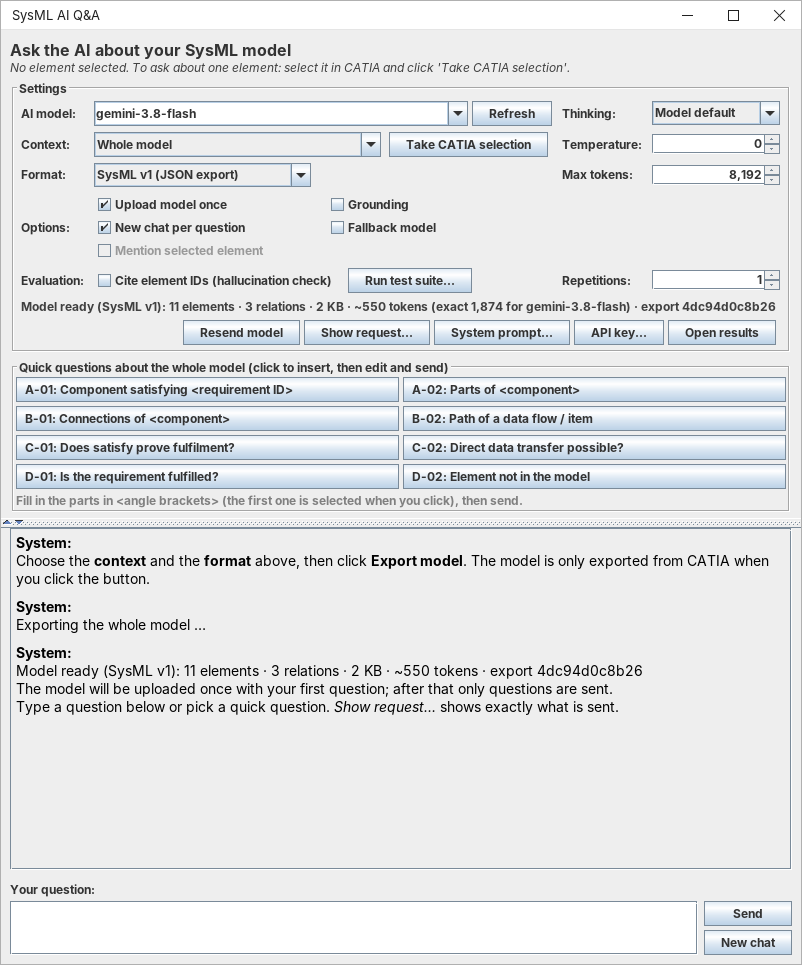
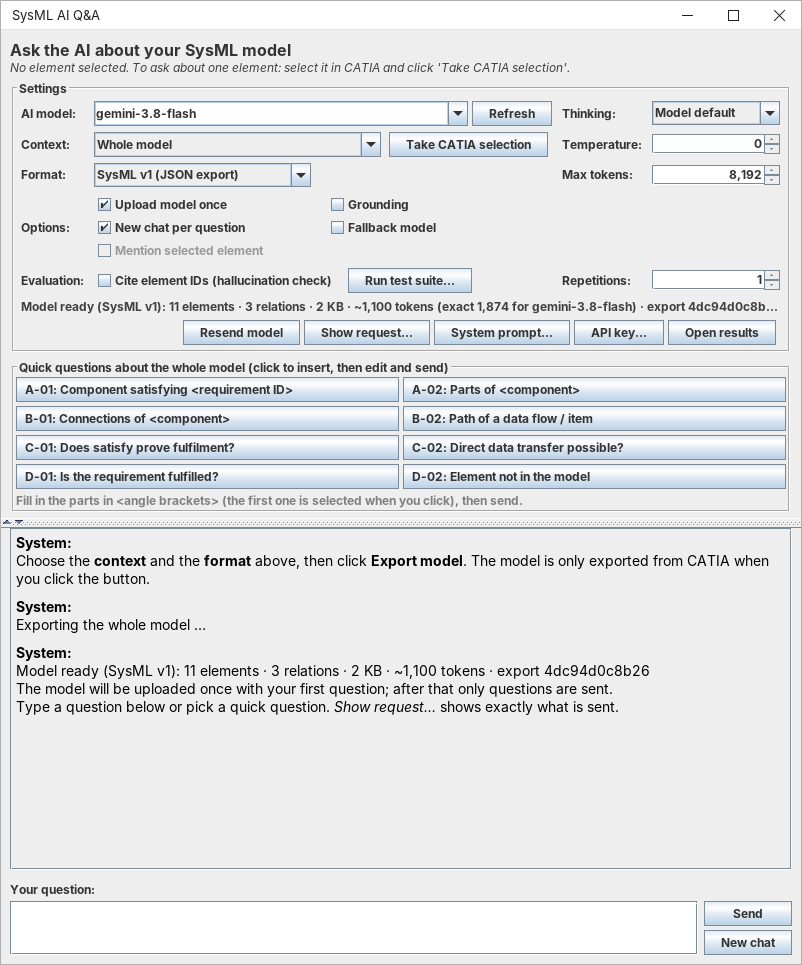
v3.5.1: Minutenlimit sofort erkennen, Testlauf geduldiger bei Überlastung, Modellnamen prüfen, INSTALL.md aktualisiert

Changed region(s): [[0.4364, 0.3109, 0.9663, 0.342], [0.4988, 0.6839, 0.8105, 0.715]]

diff --git a/src/de/hm/sysmlaiqa/api/GeminiExplanationService.java b/src/de/hm/sysmlaiqa/api/GeminiExplanationService.java
@@ -220,7 +220,7 @@ public class GeminiExplanationService implements ExplanationService {
                         daily = true;
                         break;
                     }
-                    if (cr.tooLarge) {          // zu groß für dieses Modell: inline würde genauso scheitern
+                    if (cr.tooLarge || cr.quotaTooSmall) {   // zu groß für dieses Modell: inline würde genauso scheitern
                         lastError = cr.message;
                         tooLarge = true;
                         continue;
@@ -231,13 +231,13 @@ public class GeminiExplanationService implements ExplanationService {
 
             // 2. Frage senden (Denktiefe wie eingestellt; lehnt das Modell sie ab, einmal ohne)
             String thinking = effectiveThinking(model, s.thinkingLevel);
-            Attempt a = callModel(model, buildRequestBody(s, systemPrompt, modelTurn, questionTurn, cacheName, thinking), apiKey, s, stats);
+            Attempt a = callModel(model, buildRequestBody(s, systemPrompt, modelTurn, questionTurn, cacheName, thinking), apiKey, s, stats, cacheName == null ? s.modelTokens : 0);
             if (a.answer == null && !"default".equals(thinking) && a.error != null && a.error.toLowerCase().contains("think")) {
                 synchronized (thinkingUnsupported) { thinkingUnsupported.add(model + "|" + thinking); }
                 note = (note.isEmpty() ? "" : note + " ") + model + " does not support thinking level \"" + thinking
                         + "\" – used the model's default instead.";
                 thinking = "default";
-                a = callModel(model, buildRequestBody(s, systemPrompt, modelTurn, questionTurn, cacheName, thinking), apiKey, s, stats);
+                a = callModel(model, buildRequestBody(s, systemPrompt, modelTurn, questionTurn, cacheName, thinking), apiKey, s, stats, cacheName == null ? s.modelTokens : 0);
             }
             if (a.cacheMissing && cacheName != null) {
                 // Cache bei Google abgelaufen/gelöscht -> einmal neu hochladen
@@ -246,7 +246,7 @@ public class GeminiExplanationService implements ExplanationService {
                 cacheName = cr.name;
                 transfer = cacheName != null ? "cache_new" : "inline";
                 if (cacheName == null) note = cr.message;
-                a = callModel(model, buildRequestBody(s, systemPrompt, modelTurn, questionTurn, cacheName, thinking), apiKey, s, stats);
+                a = callModel(model, buildRequestBody(s, systemPrompt, modelTurn, questionTurn, cacheName, thinking), apiKey, s, stats, cacheName == null ? s.modelTokens : 0);
             }
 
             if (a.answer != null) {
@@ -272,6 +272,7 @@ public class GeminiExplanationService implements ExplanationService {
             }
             lastError = a.error;
             if (a.dailyLimit) { daily = true; break; }
+            if (a.tooLarge) { tooLarge = true; continue; }   // passt nie ins Minutenlimit dieses Modells
             if (a.fatal || cancelled) break;
         }
 
@@ -336,6 +337,7 @@ public class GeminiExplanationService implements ExplanationService {
         boolean created;
         boolean dailyLimit;
         boolean tooLarge;
+        boolean quotaTooSmall;
         String message = "";
     }
 
@@ -394,7 +396,12 @@ public class GeminiExplanationService implements ExplanationService {
         AskSettings us = s.copy();
         us.max429Retries = Math.min(1, s.max429Retries);
         us.max429WaitSec = Math.min(30, s.max429WaitSec);
-        Sent sent = sendWithRateLimit(req, model, us, stats);
+        Sent sent = sendWithRateLimit(req, model, us, stats, s.modelTokens);
+        if (sent.quotaTooSmall) {
+            r.quotaTooSmall = true;
+            r.message = sent.error;
+            return r;
+        }
         if (sent.response == null && sent.quotaZero) {
             // Upload für dieses KI-Modell mit diesem Key nicht freigegeben -> bis "Resend model" nicht mehr versuchen
             String msg = "Caching not available for " + model + " (" + sent.error.trim()
@@ -471,10 +478,11 @@ public class GeminiExplanationService implements ExplanationService {
         boolean dailyLimit;
         boolean rateLimited;
         boolean quotaZero;   // Kontingent 0 (im Free Tier nicht freigegeben) – Warten hilft nie
+        boolean quotaTooSmall; // eine einzelne Anfrage ist größer als das Minutenkontingent – Warten hilft nie
     }
 
     /** Sendet eine Anfrage; wartet bei HTTP 429 (pro Minute) die von Google genannte Zeit und versucht es erneut. */
-    private Sent sendWithRateLimit(HttpRequest request, String model, AskSettings s, RetryStats stats) {
+    private Sent sendWithRateLimit(HttpRequest request, String model, AskSettings s, RetryStats stats, long requestTokens) {
         Sent out = new Sent();
         int attempt = 0;
         int overloadAttempt = 0;
@@ -488,9 +496,10 @@ public class GeminiExplanationService implements ExplanationService {
                 if (resp.statusCode() == 503 || resp.statusCode() == 500) {
                     // Google überlastet ("high demand") – meist nach Sekunden vorbei: kurz warten und erneut versuchen
                     overloadAttempt++;
-                    if (overloadAttempt <= 3) {
-                        int wait = 5 * overloadAttempt; // 5 s, 10 s, 15 s
-                        log(model + ": overloaded (HTTP " + resp.statusCode() + "), retrying in " + wait + " s (" + overloadAttempt + "/3)");
+                    if (overloadAttempt <= s.maxOverloadRetries) {
+                        int wait = Math.min(30, 5 * overloadAttempt); // 5, 10, 15 … höchstens 30 s
+                        log(model + ": overloaded (HTTP " + resp.statusCode() + "), retrying in " + wait + " s ("
+                                + overloadAttempt + "/" + s.maxOverloadRetries + ")");
                         sleepCancellable(wait * 1000L);
                         stats.waitedSec += wait;
                         continue;
@@ -504,6 +513,16 @@ public class GeminiExplanationService implements ExplanationService {
                 }
                 String body = resp.body();
                 String apiMsg = shorten(extractString(body, "message"), 300);
+                long quota = inputTokenQuota(body);
+                if (quota > 0 && requestTokens > quota) {
+                    // Eine einzelne Anfrage ist größer als das Minutenkontingent: Warten hilft nie
+                    out.quotaTooSmall = true;
+                    out.error = String.format("The model data (about %,d tokens) is larger than the input limit per minute of %s "
+                            + "for your API key (%,d tokens). Every request would be rejected. Choose a smaller context "
+                            + "(selected packages or element surroundings), the SysML v2 format, or an AI model that supports "
+                            + "\"Upload model once\" (e.g. gemini-3.8-flash).", requestTokens, model, quota);
+                    return out;
+                }
                 if (isZeroQuota(body)) {
                     // z. B. Upload (Cache) für Flash-Lite im Free Tier: Kontingent 0, Warten ist sinnlos
                     out.quotaZero = true;
@@ -539,6 +558,14 @@ public class GeminiExplanationService implements ExplanationService {
         }
     }
 
+    /** Minutenkontingent für Eingabe-Tokens aus einer HTTP-429-Antwort ("…input_token_count…, limit: 250000"), sonst -1. */
+    static long inputTokenQuota(String body) {
+        if (body == null) return -1;
+        Matcher m = Pattern.compile("metric: ?([^,\\s]*input_token[^,\\s]*), ?limit: ?(\\d+)").matcher(body);
+        if (m.find()) return Long.parseLong(m.group(2));
+        return -1;
+    }
+
     /** HTTP-429-Antwort mit Kontingent 0 ("limit: 0" bzw. quotaValue 0): im Free Tier nicht freigegeben. */
     static boolean isZeroQuota(String body) {
         if (body == null) return false;
@@ -551,10 +578,11 @@ public class GeminiExplanationService implements ExplanationService {
         String error;
         boolean fatal;
         boolean dailyLimit;
+        boolean tooLarge;
         boolean cacheMissing;
     }
 
-    private Attempt callModel(String model, String body, String apiKey, AskSettings s, RetryStats stats) {
+    private Attempt callModel(String model, String body, String apiKey, AskSettings s, RetryStats stats, long requestTokens) {
         Attempt result = new Attempt();
         HttpRequest request = HttpRequest.newBuilder()
                 .uri(URI.create(API_BASE + "/models/" + model + ":generateContent?key=" + apiKey))
@@ -564,10 +592,11 @@ public class GeminiExplanationService implements ExplanationService {
                 .build();
         log("Sending question to " + model + " (" + String.format("%.1f", body.length() / 1024.0) + " KB) ...");
         long t0 = System.currentTimeMillis();
-        Sent sent = sendWithRateLimit(request, model, s, stats);
+        Sent sent = sendWithRateLimit(request, model, s, stats, requestTokens);
         if (sent.response == null) {
             result.error = sent.error;
             result.dailyLimit = sent.dailyLimit;
+            result.tooLarge = sent.quotaTooSmall;
             result.fatal = CANCELLED.equals(sent.error);
             if (!result.fatal) CIRCUIT.recordFailure(model);
             return result;
@@ -788,6 +817,13 @@ public class GeminiExplanationService implements ExplanationService {
         }
     }
 
+    private final Set<String> unknownModels = new HashSet<>();
+
+    /** true, wenn Google den Modellnamen nicht kennt (HTTP 404 bei {@link #inputTokenLimit(String)}). */
+    public boolean isUnknownModel(String model) {
+        synchronized (unknownModels) { return unknownModels.contains(model); }
+    }
+
     /** Eingabelimit des Modells in Tokens laut Google (einmal abgefragt, dann gemerkt); -1 = unbekannt. */
     public int inputTokenLimit(String model) {
         synchronized (inputLimits) {
@@ -804,6 +840,10 @@ public class GeminiExplanationService implements ExplanationService {
                         .GET().build();
                 HttpResponse<String> resp = httpClient.send(req, HttpResponse.BodyHandlers.ofString());
                 if (resp.statusCode() == 200) limit = extractInt(resp.body(), "inputTokenLimit");
+                if (resp.statusCode() == 404) {
+                    synchronized (unknownModels) { unknownModels.add(model); }
+                    return -1;   // nicht merken: nach einer Korrektur des Namens erneut fragen
+                }
             } catch (Exception ignored) { }
         }
         synchronized (inputLimits) {

diff --git a/src/de/hm/sysmlaiqa/ui/ExplanationDialog.java b/src/de/hm/sysmlaiqa/ui/ExplanationDialog.java
@@ -1452,9 +1452,16 @@ public class ExplanationDialog extends JFrame {
                     s.allowFallback = false; // keine vermischten Modelle im Testlauf
                     s.max429WaitSec = 120;   // im Testlauf geduldiger auf Rate-Limits warten
                     s.max429Retries = 5;
+                    s.maxOverloadRetries = 8;  // bei "high demand" bis etwa 3 min warten, bevor eine Frage als failed zählt
                     // Vorab prüfen, ob die Modelldaten in das Eingabelimit passen; sonst scheitert jede Frage gleich
                     showLiveStatus("Checking the size of the model data for " + model + " …");
                     int limit = apiService.inputTokenLimit(model);
+                    if (apiService.isUnknownModel(model)) {
+                        publish("<span style='color:#B00020'><b>Skipped " + escapeHtml(model) + "</b>: Google does not know this model name. "
+                                + "No questions were sent. Check the spelling (e.g. gemini-3.8-flash, gemini-3.5-flash-lite) or click "
+                                + "<b>Refresh</b> to see the models of your API key.</span>");
+                        continue;
+                    }
                     int tokens = ex.exactTokens >= 0 && model.equals(ex.exactTokensModel) ? ex.exactTokens
                             : apiService.countTokens(model, ex.content, ex.format);
                     if (cancelRequested) break;

diff --git a/src/de/hm/sysmlaiqa/api/AskSettings.java b/src/de/hm/sysmlaiqa/api/AskSettings.java
@@ -26,6 +26,10 @@ public class AskSettings {
     public int relationDepth = -1;           // Depth: relations (nur bei Element + Umgebung, sonst -1)
     public int siblingDepth = -1;            // Depth: neighbours (nur bei Element + Umgebung, sonst -1)
     public int pauseSec = 0;                 // Testlauf: Extra-Pause zwischen Anfragen
+    /** Nicht im Log: Tokens der Modelldaten (genau, sonst geschätzt) – zum Erkennen, dass eine Anfrage nie ins Minutenlimit passt. */
+    public long modelTokens = -1;
+    /** Nicht im Log: so oft bei Überlastung (HTTP 503 "high demand") erneut versuchen; Testlauf geduldiger. */
+    public int maxOverloadRetries = 3;
 
     public AskSettings copy() {
         AskSettings c = new AskSettings();
@@ -47,6 +51,8 @@ public class AskSettings {
         c.relationDepth = relationDepth;
         c.siblingDepth = siblingDepth;
         c.pauseSec = pauseSec;
+        c.modelTokens = modelTokens;
+        c.maxOverloadRetries = maxOverloadRetries;
         return c;
     }
 }

diff --git a/src/de/hm/sysmlaiqa/api/Evaluation.java b/src/de/hm/sysmlaiqa/api/Evaluation.java
@@ -22,6 +22,8 @@ public final class Evaluation {
         AskSettings s = settings.copy();
         if (repetition > 1 || settings.repetitions > 1) s.freshChat = true;
         s.format = export.format;   // System-Prompt und Modelldaten passen immer zum Format des Exports
+        s.modelTokens = export.exactTokens >= 0 && settings.model.equals(export.exactTokensModel)
+                ? export.exactTokens : export.approxTokens();
 
         PromptLoader.Template tpl = PromptLoader.loadTemplate(GeminiExplanationService.getBaseDirectory(), s.format);
         String systemPrompt = PromptLoader.fill(tpl.text, s.requireIds, s.format);

diff --git a/tools/docs-screenshots/Docs.java b/tools/docs-screenshots/Docs.java
@@ -136,7 +136,7 @@ public class Docs {
             setF(d, "loading", false);
             call(d, "updateControls");
         });
-        ModelExport ex = ModelExport.fromSysmlFiles(List.of(new File(data, "DroneSystem.sysml")), new File(data, "tmp"));
+        ModelExport ex = ModelExport.fromSysmlFiles(List.of(new File(data, "DroneSystem.sysml")), new File(System.getProperty("java.io.tmpdir")));
         msg(d, "System", "Reading 1 SysML v2 file(s) exported by CATIA …");
         edt(() -> {
             setF(d, "exportedKey", "native");

diff --git a/src/de/hm/sysmlaiqa/api/ModelExport.java b/src/de/hm/sysmlaiqa/api/ModelExport.java
@@ -170,9 +170,9 @@ public class ModelExport {
         return isV2() ? ".sysml" : ".json";
     }
 
-    /** Grobe Schätzung: ca. 4 Zeichen pro Token. */
+    /** Grobe Schätzung: ca. 2 Zeichen pro Token (gemessen: JSON-Export 1,98, SysML-v2-Text 1,83 Zeichen pro Token bei Gemini). */
     public long approxTokens() {
-        return content.length() / 4;
+        return content.length() / 2;
     }
 
     public double sizeKb() {

diff --git a/INSTALL.md b/INSTALL.md
@@ -124,8 +124,10 @@ In CATIA oben im Menü **Window → Notification Window** öffnen (oder **Strg+M
 Im Notification Window muss eine Zeile stehen wie:
 
 ```
-[SysML AI Q&A] Plugin loaded (version 3.1-ws2627, 17/17 diagram/table types)
+[SysML AI Q&A] Plugin loaded (version 3.5.1-ws2627, 17/17 diagram/table types)
 ```
+
+Die Versionsnummer hängt vom installierten Stand ab; das Bild unten zeigt eine ältere Version.
 
 ![Notification Window mit der Kontrollzeile](docs/images/start-02-notification-window.png)
 
@@ -135,17 +137,23 @@ Fehlt die Zeile, ist das Plugin nicht geladen (siehe [Wenn etwas nicht klappt](#
 
 Ein Projekt öffnen. Dann gibt es zwei Wege:
 
-**Rechtsklick** auf ein Element im Containment Tree oder in einem Diagramm → **Ask AI (SysML AI Q&A)** → **Ask AI…**. Im Fenster wählst du unter *Context*, ob das ganze Modell, ausgewählte Pakete oder nur dieses Element mit Umgebung an die KI geht, und klickst **Export model**.
+**Rechtsklick** auf ein Element im Containment Tree oder in einem Diagramm → **Ask AI (SysML AI Q&A)** → **Ask AI…**. Das angeklickte Element wird mitgegeben; im Fenster wählst du unter *Context*, ob das ganze Modell, ausgewählte Pakete oder nur dieses Element mit Umgebung an die KI geht.
 
 ![Rechtsklick-Menü im Containment Tree](docs/images/start-03-context-menu.png)
 
-**Menüleiste:** ganz rechts **Ask AI** → *Ask AI…* oder *SysML AI Q&A – API key…*. Das funktioniert auch, wenn ein Element in einer Tabelle markiert ist.
+**Menüleiste:** ganz rechts **Ask AI** → *Ask AI…* oder *SysML AI Q&A – API key…*. Das gerade markierte Element wird mitgegeben, auch eine Zeile in einer Tabelle.
 
 ![Menüleiste mit „Ask AI“](docs/images/start-04-menu-bar.png)
 
-Es öffnet sich das Fenster **SysML AI Q&A**. Das Plugin exportiert zuerst das Modell. Sobald im Einstellungsbereich **Model ready: …** steht, kann man Fragen stellen.
+Es öffnet sich das Fenster **SysML AI Q&A**, zunächst **ohne Export**. *Context* und *Format* wählen, dann **Export model** klicken. Sobald im Einstellungsbereich **Model ready: …** steht, kann man Fragen stellen oder einen Testlauf starten.
 
-![Das Plugin-Fenster in CATIA nach dem Export](docs/images/start-05-plugin-window.png)
+![Das Fenster direkt nach dem Öffnen: Context und Format wählen, dann Export model](docs/images/start-06-plugin-window-model.png)
+
+![Das Fenster nach Export model](docs/images/start-05-plugin-window.png)
+
+Das Fenster hat oben rechts Minimieren, Maximieren und Schließen und passt sich beim Öffnen an den Bildschirm an. Liegt es hinter CATIA, holt es ein Klick auf seinen Eintrag in der Taskleiste zurück.
+
+**Tipp für den Anfang:** Mit einem kleinen *Context* beginnen (*Selected packages / elements* oder *Selected element + surroundings*) und auf die Tokenzahl in der Statuszeile achten. Mit `gemini-3.8-flash` wird das Modell einmal hochgeladen; bei Flash-Lite geht es mit jeder Frage mit, und große Modelle stoßen im Free Tier schnell an das Minutenlimit.
 
 Wie es weitergeht und was jede Einstellung bedeutet, steht im **[Benutzerhandbuch](HANDBUCH.md)**.
 
@@ -263,9 +271,12 @@ Der Plugin-Ordner liegt normalerweise unter `C:\Program Files\Magic Systems of S
 | `Keine Schreibrechte` / `Zugriff verweigert` | ohne Adminrechte gestartet oder CATIA läuft noch | CATIA schließen; Rechtsklick auf die `.bat` → **Als Administrator ausführen** |
 | `CATIA läuft noch` | ein CATIA-Fenster ist noch offen | alle CATIA-Fenster schließen, ggf. im Task-Manager beenden, dann Enter |
 | Nach dem Start kein Menüeintrag „Ask AI“ | Plugin in eine andere CATIA-Installation kopiert oder Ladefehler | Pfad aus dem Installationsfenster mit dem CATIA-Startpfad vergleichen; im Notification Window nach `SysML AI Q&A` suchen und die Meldung ans Team schicken |
-| Rechtsklick in einer **Requirement-Tabelle** zeigt keinen Eintrag | bekannte Einschränkung | Zeile markieren und oben in der Menüleiste **Ask AI → Ask AI about the selected element…** wählen, oder **Alt+B** (Select in Containment Tree) und dort Rechtsklick |
-| `HTTP 429` | Free-Tier-Limit erreicht | Minutenlimit: das Plugin wartet selbst. Tageslimit: bis morgen warten oder ein anderes KI-Modell wählen |
-| `HTTP 503` / `HTTP 500` | Google-Server überlastet | wird automatisch bis zu dreimal wiederholt; sonst später erneut versuchen oder ein anderes Modell wählen |
+| Rechtsklick in einer **Requirement-Tabelle** zeigt keinen Eintrag | bekannte Einschränkung | Zeile markieren und oben in der Menüleiste **Ask AI → Ask AI…** wählen, oder **Alt+B** (Select in Containment Tree) und dort Rechtsklick |
+| `HTTP 429` | Free-Tier-Limit erreicht | Minutenlimit: das Plugin wartet selbst (rechts neben *Your question:* steht, wie lange). Tageslimit: bis morgen warten oder ein anderes KI-Modell wählen |
+| *„The model data … is larger than the input limit per minute …“* | eine einzelne Anfrage ist größer als das Minutenkontingent des API-Keys – sie käme nie durch | kleineren *Context* wählen, das Format *SysML v2 (converted from v1)* probieren oder `gemini-3.8-flash` (lädt das Modell einmal hoch) |
+| Frage oder Testlauf „hängt“ minutenlang | das Plugin wartet auf ein Google-Limit oder Google ist überlastet | den Live-Status rechts neben *Your question:* ansehen; mit **Stop** abbrechen. Meist hilft ein kleinerer *Context* oder `gemini-3.8-flash` |
+| `HTTP 503` / `HTTP 500` („high demand“) | Google-Server überlastet | wird automatisch wiederholt (Chat bis zu 3-mal, Testlauf bis etwa 3 Minuten); sonst später erneut versuchen oder ein anderes Modell wählen |
+| `HTTP 404` „… is not found“ oder *„Google does not know this model name“* | Modellname falsch geschrieben (z. B. `gemini-3.5` statt `gemini-3.5-flash-lite`) | Namen korrigieren; **Refresh** zeigt die Modelle des eigenen API-Keys |
 | `HTTP 400` / `HTTP 403` mit „API key“ | API-Key falsch oder gelöscht | über **API key…** einen neuen Key eintragen |
 | (Weg B) `Kein Java JDK` oder `javac 1.8` | kein oder zu altes JDK | Temurin JDK 21 installieren (siehe oben) |
 

diff --git a/AENDERUNGEN.md b/AENDERUNGEN.md
@@ -10,6 +10,11 @@ Branch: `feature/free-prompt-full-model` (Basis: Stand SoSe 2026, Commit 2606f7d
 - **Testlauf prüft die Größe vorher:** Passen die Modelldaten nicht in das Eingabelimit eines KI-Modells, überspringt der Testlauf dieses Modell, ohne Fragen zu senden. Scheitert eine Frage trotzdem an der Größe, werden die übrigen Fragen für dieses Modell übersprungen statt einzeln zu scheitern.
 - **Testlauf mit Flash-Lite hing minutenlang:** Vor jeder Frage versuchte das Plugin, das Modell hochzuladen (*Upload model once*). Im Free Tier lehnt Google das für Flash-Lite mit HTTP 429 ab. Der Testlauf behandelte das wie ein Minutenlimit und wartete pro Frage bis zu 5 × 120 s, bevor er die Frage doch ohne Upload schickte; im Chat (kürzere Wartezeit) kam deshalb eine Antwort, im Testlauf scheinbar nichts. Jetzt: Meldet Google ein Kontingent von 0, versucht das Plugin den Upload für dieses KI-Modell nicht mehr (bis *Resend model*) und schickt das Modell sofort mit der Frage. Bei einem gewöhnlichen Minutenlimit wartet der Upload höchstens einmal 30 s.
 - **Schnellfragen = Fragenkatalog:** Die bisherigen Vorlagen sind durch die acht Fragen A-01 … D-02 des Fragenkatalogs ersetzt (je zwei für Information Retrieval, Structural Reasoning, Semantic Reasoning, Uncertainty). Es gibt nur noch einen Satz; ist ein Element ausgewählt (*Selected element + surroundings*), wird sein Name in `<requirement ID>` bzw. `<component>` eingesetzt. Die Warnung vor nicht ausgefüllten Platzhaltern erkennt jetzt auch lange Platzhalter (bis 100 Zeichen).
+- **Modell zu groß fürs Minutenlimit:** Meldet Google bei HTTP 429, dass das Minutenkontingent für Eingabe-Tokens kleiner ist als eine einzelne Anfrage (z. B. ganzes Modell mit 334.000 Tokens bei Flash-Lite ohne Upload), bricht das Plugin sofort mit einer klaren Meldung ab, statt minutenlang zu warten; im Testlauf werden die übrigen Fragen dieses KI-Modells übersprungen.
+- **Überlastung im Testlauf:** Bei „high demand“ (HTTP 503) versucht der Testlauf es bis zu 8-mal (zusammen etwa 3 Minuten), der Chat weiterhin 3-mal.
+- **Modellnamen prüfen:** Vor dem Testlauf fragt das Plugin jedes KI-Modell bei Google ab. Ein unbekannter Name (z. B. `gemini-3.5`) wird übersprungen und gemeldet, statt dass jede Frage mit HTTP 404 scheitert.
+- **Token-Schätzung realistischer:** Die Schätzung in der Statuszeile (*~… tokens*) rechnet mit 2 statt 4 Zeichen pro Token (gemessen: JSON-Export 1,98, SysML-v2-Text 1,83). Die Spalte `export_tokens_est` im Log ist dadurch ab 3.5.1 etwa doppelt so groß wie vorher; maßgeblich bleibt `export_tokens_exact`.
+- **INSTALL.md:** Menüeintrag *Ask AI…* statt der alten Einträge (Text und Bild `start-03-context-menu.png`), Fenster öffnet ohne Export, Hinweise zu Minutenlimit, Live-Status, HTTP 404 und 503.
 - **Live-Status:** Rechts neben *Your question:* zeigt das Plugin mit Uhrzeit, was es gerade tut (z. B. *Question 2/5 (A-02) …*, *Uploading model …*, *per-minute rate limit, waiting 45 s*). Bisher standen Wartezeiten nur im CATIA-Log, ein Testlauf wirkte dann minutenlang eingefroren.
 - **Minimieren, Maximieren, Schließen:** Das Fenster ist jetzt ein eigenes Programmfenster mit allen drei Knöpfen und eigenem Eintrag in der Taskleiste. Bisher hing es als Dialog am CATIA-Fenster und hatte nur *Schließen*. Folge: Klickt man in CATIA, kann das Fenster dahinter liegen; über die Taskleiste kommt es zurück.
 - **Verschiebbare Trennlinie** zwischen Einstellungen und Chat; die Pfeile auf der Linie klappen die Einstellungen ein und aus. Die Einstellungen sind scrollbar.

diff --git a/docs/LASTENHEFT_ABDECKUNG.md b/docs/LASTENHEFT_ABDECKUNG.md
@@ -39,5 +39,5 @@ Status: ✅ erfüllt · 🟡 teilweise / mit Einschränkung · ⬜ offen
 ## Offene Punkte
 
 - **FR4:** Andere Anbieter als Gemini (z. B. lokale Modelle über eine OpenAI-kompatible Schnittstelle wie Ollama) würden echte Modellgrößen-Vergleiche erleichtern. Nicht umgesetzt; als Erweiterung möglich (`ExplanationService` ist dafür als Schnittstelle angelegt).
-- **FR7:** CATIA bietet für SysML v2 keine dokumentierte Programmierschnittstelle; das Plugin nutzt deshalb den Textexport von CATIA (ein Klick mehr als bei v1). *Context*/*Depth* gelten nur für v1; bei v2 wählt man den Umfang über die Namespaces im CATIA-Export. Ob *Ask AI about this element* in SysML-v2-Projekten erscheint, ist noch nicht in CATIA geprüft.
+- **FR7:** CATIA bietet für SysML v2 keine dokumentierte Programmierschnittstelle; das Plugin nutzt deshalb den Textexport von CATIA (ein Klick mehr als bei v1). *Context*/*Depth* gelten nur für v1; bei v2 wählt man den Umfang über die Namespaces im CATIA-Export. Ob der Menüeintrag *Ask AI…* in SysML-v2-Projekten erscheint, ist noch nicht in CATIA geprüft.
 - **Test in CATIA:** Die Änderungen wurden außerhalb von CATIA gegen nachgebildete CATIA-Schnittstellen kompiliert und mit einem simulierten Gemini-Server getestet. Ein Abnahmetest in CATIA (Prüfspalte oben) steht aus.

diff --git a/HANDBUCH.md b/HANDBUCH.md
@@ -361,7 +361,9 @@ Während des Laufs erscheint pro Antwort eine Zeile mit Nummer, Testfall, Modell
 
 ![Abgeschlossener Testlauf](docs/images/test-suite-finished.png)
 
-Im Testlauf gilt immer: jede Frage in einem neuen Chat, kein Fallback-Modell. Bei einem Minutenlimit wartet das Plugin automatisch. Bei einem **Tageslimit** überspringt es die restlichen Fragen für dieses Modell und meldet das in Rot.
+Im Testlauf gilt immer: jede Frage in einem neuen Chat, kein Fallback-Modell. Bei einem Minutenlimit wartet das Plugin automatisch, bei Überlastung („high demand“, HTTP 503) bis etwa 3 Minuten. Bei einem **Tageslimit** überspringt es die restlichen Fragen für dieses Modell und meldet das in Rot. Ebenso übersprungen wird ein KI-Modell, dessen Name Google nicht kennt (Tippfehler im Feld *Models*), dessen Eingabelimit das Modell übersteigt oder bei dem eine einzelne Anfrage größer ist als das Minutenkontingent des API-Keys – dann käme keine Frage je durch.
+
+**Wichtig:** Ein Testlauf schickt jede Zeile genau wie eine Frage im Chat. Klappt eine Frage im Chat mit denselben Einstellungen (*AI model*, *Context*, *Format*) nicht, klappt auch der Testlauf nicht. Vor einem langen Lauf deshalb eine Frage im Chat ausprobieren.
 
 ---
 
